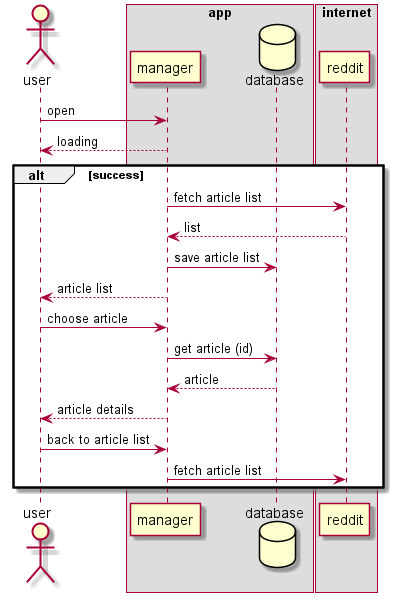
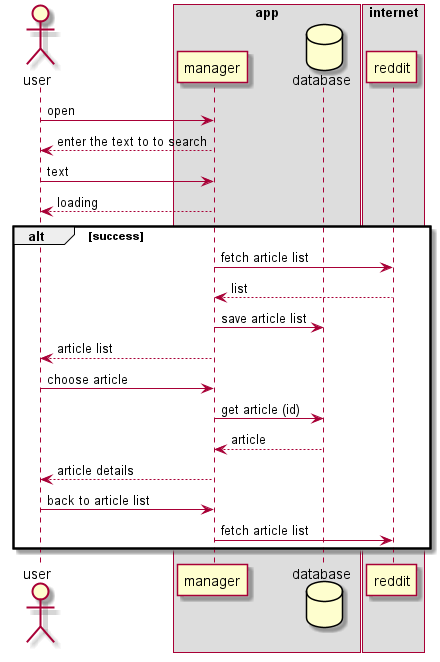
Minors improvment

Changed region(s): [[0.0, 0.0, 1.0, 0.9867]]

diff --git a/android-app/app/src/main/java/br/com/hisao/redditarticles/details/DetailsFragment.kt b/android-app/app/src/main/java/br/com/hisao/redditarticles/details/DetailsFragment.kt
@@ -12,7 +12,7 @@ import androidx.navigation.fragment.navArgs
 import br.com.hisao.redditarticles.MainActivitySharedViewModel
 import br.com.hisao.redditarticles.databinding.FragmentDetailsBinding
 import br.com.hisao.redditarticles.model.Status
-import br.com.hisao.redditarticles.utils.TextUtils
+import br.com.hisao.redditarticles.util.isValidThumbnailUrl
 import com.bumptech.glide.Glide
 
 
@@ -37,7 +37,6 @@ class DetailsFragment : Fragment() {
             ViewModelProvider(this, detailsViewModelFactory).get(DetailsViewModel::class.java)
         }
 
-
         viewModel.articleViewModelLiveData.observe(viewLifecycleOwner) {
             when (it.status) {
                 Status.SUCCESS -> {
@@ -45,7 +44,7 @@ class DetailsFragment : Fragment() {
                         dataBinding.articleSelfText.text = it.data?.selftext?.trim()
 
                         val urlThumb = it.data?.thumbnail
-                        if (TextUtils.isValidThumbnail(urlThumb)) {
+                        if (urlThumb.isValidThumbnailUrl()) {
                             dataBinding.thumb.visibility = View.VISIBLE
                             context?.let { it1 ->
                                 Glide

diff --git a/android-app/app/src/main/java/br/com/hisao/redditarticles/overview/OverviewAdapter.kt b/android-app/app/src/main/java/br/com/hisao/redditarticles/overview/OverviewAdapter.kt
@@ -8,7 +8,7 @@ import androidx.recyclerview.widget.ListAdapter
 import androidx.recyclerview.widget.RecyclerView
 import br.com.hisao.redditarticles.databinding.ListArticleItemBinding
 import br.com.hisao.redditarticles.model.json.Article
-import br.com.hisao.redditarticles.utils.TextUtils.Companion.isValidThumbnail
+import br.com.hisao.redditarticles.util.isValidThumbnailUrl
 import com.bumptech.glide.Glide
 
 class OverviewAdapter(private val clickListener: ArticleOnClickListener) :
@@ -32,7 +32,7 @@ class ViewHolder private constructor(private val dataBinding: ListArticleItemBin
 
         dataBinding.articleTitle.text = item.title
         dataBinding.articleSelfText.text = item.selftext
-        if (!isValidThumbnail(item.thumbnail)) {
+        if (item.thumbnail.isValidThumbnailUrl()) {
             dataBinding.thumb.visibility = View.GONE
         } else {
             dataBinding.thumb.visibility = View.VISIBLE

diff --git a/android-app/app/src/main/java/br/com/hisao/redditarticles/details/DetailsViewModelFactory.kt b/android-app/app/src/main/java/br/com/hisao/redditarticles/details/DetailsViewModelFactory.kt
@@ -5,13 +5,15 @@ import androidx.lifecycle.ViewModel
 import androidx.lifecycle.ViewModelProvider
 import br.com.hisao.redditarticles.repository.RedditRepository
 import br.com.hisao.redditarticles.db.ArticleDatabase
+import br.com.hisao.redditarticles.web.RedditWebServiceApi
 
 class DetailsViewModelFactory(private val application: Application) :
     ViewModelProvider.Factory {
     override fun <T : ViewModel?> create(modelClass: Class<T>): T {
         if (modelClass.isAssignableFrom(DetailsViewModel::class.java)) {
             val dataSource = ArticleDatabase.getInstance(application).dao
-            return DetailsViewModel(RedditRepository(dataSource)) as T
+            val webservice: RedditWebServiceApi = RedditWebServiceApi
+            return DetailsViewModel(RedditRepository(dataSource, webservice)) as T
         }
         throw IllegalArgumentException("Unknown ViewModel class")
     }

diff --git a/android-app/app/src/main/java/br/com/hisao/redditarticles/overview/OverviewViewModelFactory.kt b/android-app/app/src/main/java/br/com/hisao/redditarticles/overview/OverviewViewModelFactory.kt
@@ -5,12 +5,14 @@ import androidx.lifecycle.ViewModel
 import androidx.lifecycle.ViewModelProvider
 import br.com.hisao.redditarticles.repository.RedditRepository
 import br.com.hisao.redditarticles.db.ArticleDatabase
+import br.com.hisao.redditarticles.web.RedditWebServiceApi
 
 class OverviewViewModelFactory(private val application: Application) : ViewModelProvider.Factory {
     override fun <T : ViewModel?> create(modelClass: Class<T>): T {
         if (modelClass.isAssignableFrom(OverviewViewModel::class.java)) {
             val dataSource = ArticleDatabase.getInstance(application).dao
-            return OverviewViewModel(RedditRepository(dataSource)) as T
+            val webservice: RedditWebServiceApi = RedditWebServiceApi
+            return OverviewViewModel(RedditRepository(dataSource, webservice)) as T
         }
         throw IllegalArgumentException("Unknown ViewModel class")
     }

diff --git a/android-app/app/src/main/java/br/com/hisao/redditarticles/repository/RedditRepository.kt b/android-app/app/src/main/java/br/com/hisao/redditarticles/repository/RedditRepository.kt
@@ -16,9 +16,9 @@ private val coroutineScope = CoroutineScope(viewModelJob + Dispatchers.Main)
 
 @Singleton
 class RedditRepository @Inject constructor(
-    private val articleDatabaseDao: ArticleDatabaseDao
-) {
+    private val articleDatabaseDao: ArticleDatabaseDao,
     private val webservice: RedditWebServiceApi = RedditWebServiceApi
+) {
     val articleRepositoryMutableLiveData = MutableLiveData<Resource<Article>>()
     val articleListRepositoryMutableLiveData = MutableLiveData<Resource<List<Article>>>()
 

diff --git a/android-app/app/src/main/java/br/com/hisao/redditarticles/util/StringUtil.kt b/android-app/app/src/main/java/br/com/hisao/redditarticles/util/StringUtil.kt
@@ -1,0 +1,4 @@
+package br.com.hisao.redditarticles.util
+
+fun String?.isValidThumbnailUrl(): Boolean =
+    (this == null || this.isBlank() || this.isEmpty() || this == "self")

diff --git a/README.md b/README.md
@@ -3,7 +3,7 @@
 Android running kotlin and Gradle. Use your favorite tools to compile and run
 
 # What is
-It retrieves **one** page of reddit api. This page, by default is *kotlin* 
+It retrieves **one** page of reddit api in the subject the user searches.
 
 # Architecture
 
